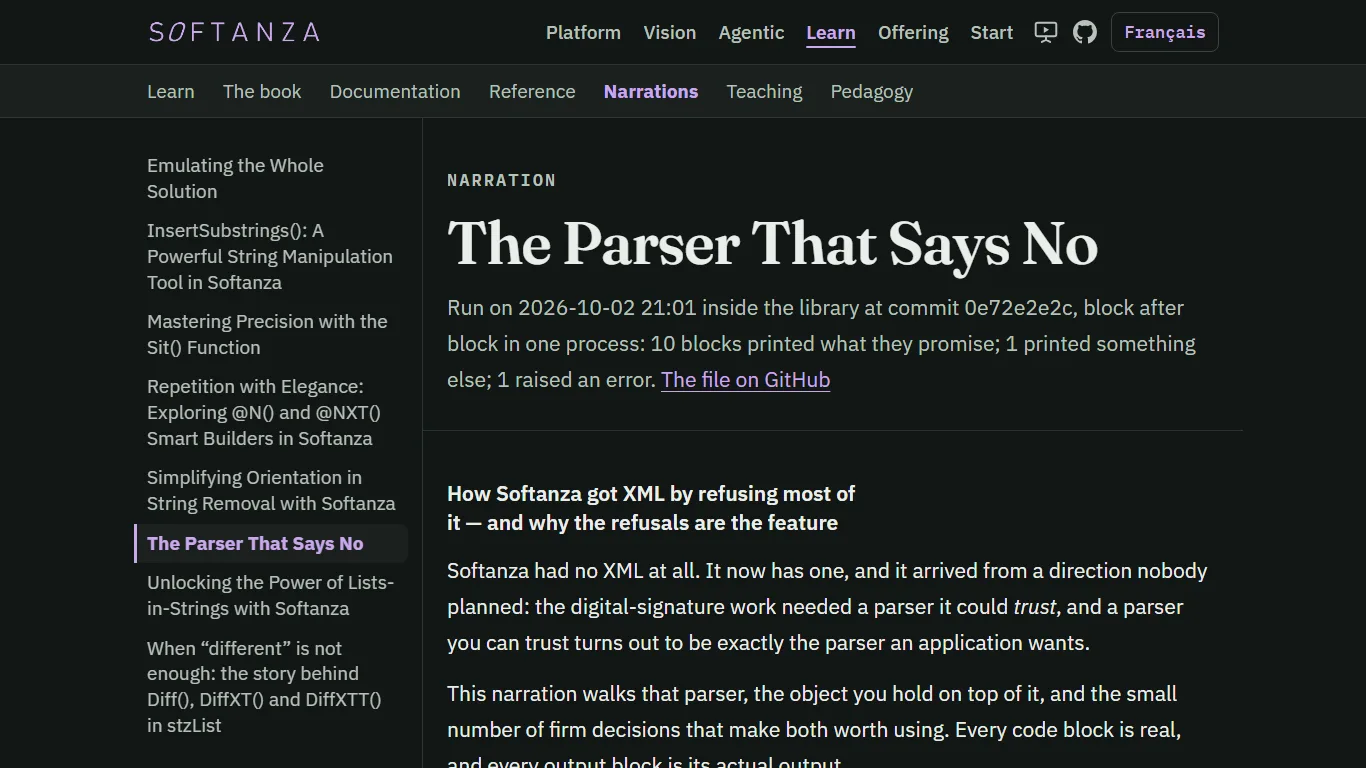
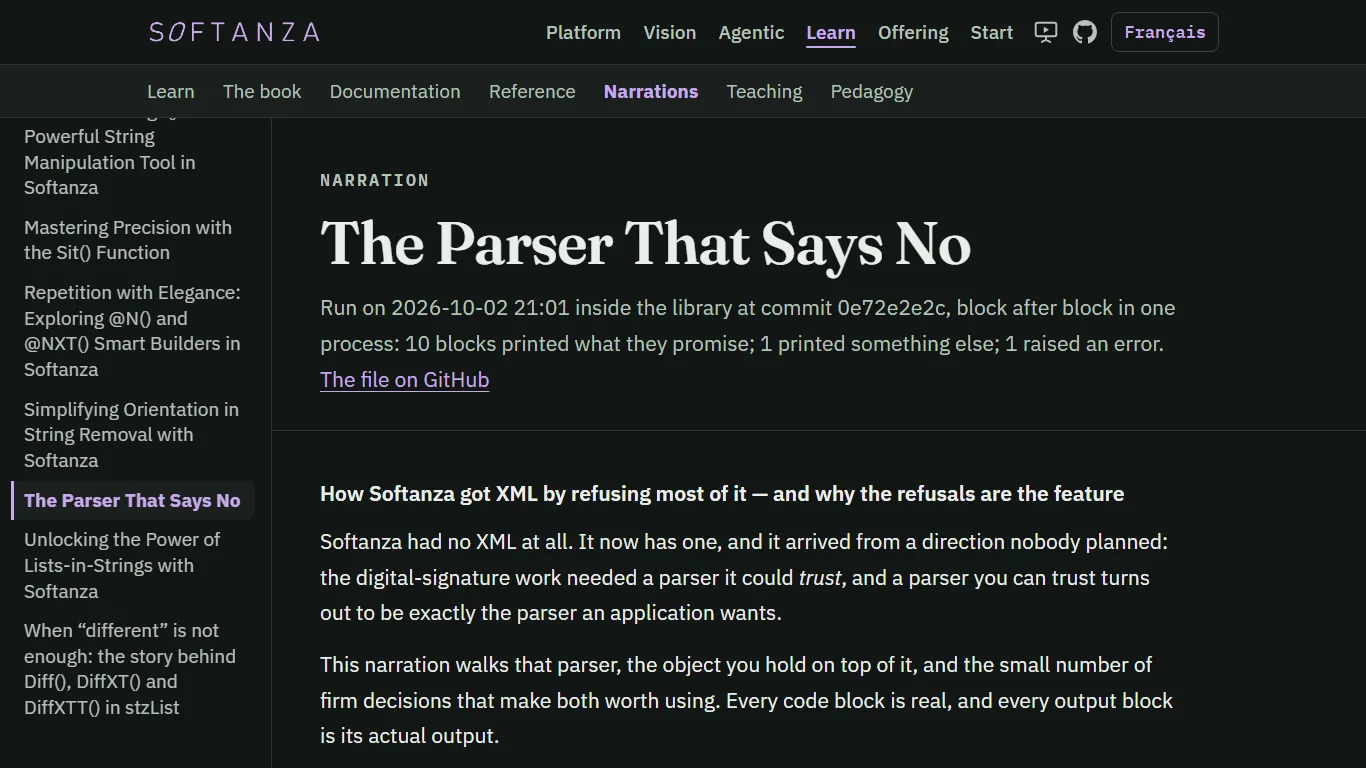
Pages with the left bar take the width the screen offers
The layout of a page with the bar widens to 1,680 px: the bar takes 18% of
the width (272 to 336 px), never a quarter (Zui 8, a sidebar stays quiet), and
the page takes the rest (Zui 6). Prose keeps its 68-character measure; code,
run blocks, tables and pictures widen to 1,120 px. Measured at 1,855, 1,366
and 1,180 px: the bar stays between 18% and 23%, nothing overflows.

Changed region(s): [[0.0, 0.1562, 0.8917, 1.0]]

diff --git a/assets/css/site.css b/assets/css/site.css
@@ -511,8 +511,12 @@ ol.narr .ran{display:inline;margin:0}
 
 /* ---- the second submenu: the pages of this level, a column on the left -----
    three menu levels and never more: the main menu, the section's path, this bar */
-.l2wrap{display:grid;grid-template-columns:300px minmax(0,1fr);max-width:var(--maxw);width:100%;min-width:0;margin:0 auto}   /* the same box as the menus above it, so the levels line up */
-.level2{position:sticky;top:var(--pin,120px);align-self:start;max-height:calc(100vh - var(--pin,120px));overflow-y:auto;border-right:1px solid var(--line);padding:28px 14px 40px calc(var(--gutter) - 13px);scrollbar-width:thin}
+.l2wrap{display:grid;grid-template-columns:clamp(272px,18vw,336px) minmax(0,1fr);max-width:1680px;width:100%;min-width:0;margin:0 auto}
+/* with the bar, the page takes the width the screen offers (the author, 2026-10-02): the bar stays under a fifth of it
+   and quiet (Zui 8), the page gets the rest (Zui 6); prose keeps its measure, code, tables and figures widen */
+.has-l2 main .wrap{max-width:1280px;margin:0;padding-left:48px;padding-right:var(--gutter)}
+.has-l2 pre,.has-l2 .run,.has-l2 .narration .nblock,.has-l2 .narration hr,.has-l2 .narration img{max-width:1120px}
+.level2{position:sticky;top:var(--pin,120px);align-self:start;max-height:calc(100vh - var(--pin,120px));overflow-y:auto;border-right:1px solid var(--line);padding:32px 16px 40px calc(var(--gutter) - 13px);scrollbar-width:thin}
 .level2 ul{list-style:none;margin:0;padding:0}
 .level2 .l2-group+.l2-group{margin-top:22px}
 .level2 .l2-h{font-size:1.1875rem;font-weight:700;line-height:1.35;color:var(--ink);margin:0 0 6px 13px}
@@ -522,6 +526,7 @@ ol.narr .ran{display:inline;margin:0}
 /* narrower than the column and the page together: the bar becomes a row above the page, scrolled sideways like the path */
 @media (max-width:1100px){
   .l2wrap{display:block}
+  .has-l2 main .wrap{padding-left:var(--gutter)}
   .level2{position:static;max-height:none;overflow-x:auto;overflow-y:hidden;border-right:0;border-bottom:1px solid var(--line);padding:6px var(--gutter);scrollbar-width:none}
   .level2::-webkit-scrollbar{display:none}
   .level2 .l2-in{display:flex;align-items:center;gap:0 28px;width:max-content}

diff --git a/JOURNAL.md b/JOURNAL.md
@@ -670,3 +670,26 @@ next:
   - me:      the how-to pages from the quickers
   - author:  open Platform > The areas > Geo & cartography and move along the bar
 ```
+
+```yaml
+by:        stzsite · claude-opus-5-5 · 2026-10-02 22:18
+
+subject:   pages with the left bar take the width the screen offers
+
+why:       the author found the page with the bar boxed in the menus' width, with wide empty margins on a large screen
+
+did:
+  - widened the layout of every page with the bar to 1,680 px: the bar takes 18 % of the width (272 to 336 px), never
+    a quarter (Zui 8, a sidebar stays quiet), and the page takes the rest (Zui 6, 70/30); spacing in steps of 8 px
+  - kept prose at its measure (68 characters) and let code, run blocks, tables and pictures widen to 1,120 px
+  - measured: 1,855 px wide, bar 334 px (18 %), prose 857 px, nothing overflows; 1,366 px, bar 272 px (20 %); 1,180 px,
+    bar 23 %; below 1,100 px the bar is still the sideways row
+
+state:
+  release-1-pass-15: built; the commit carrying this entry is the one after fbf4c34
+  perception-gate:   OPEN
+
+next:
+  - me:      the how-to pages from the quickers
+  - author:  look at Platform > The areas > Agents & conversation on the large screen
+```
